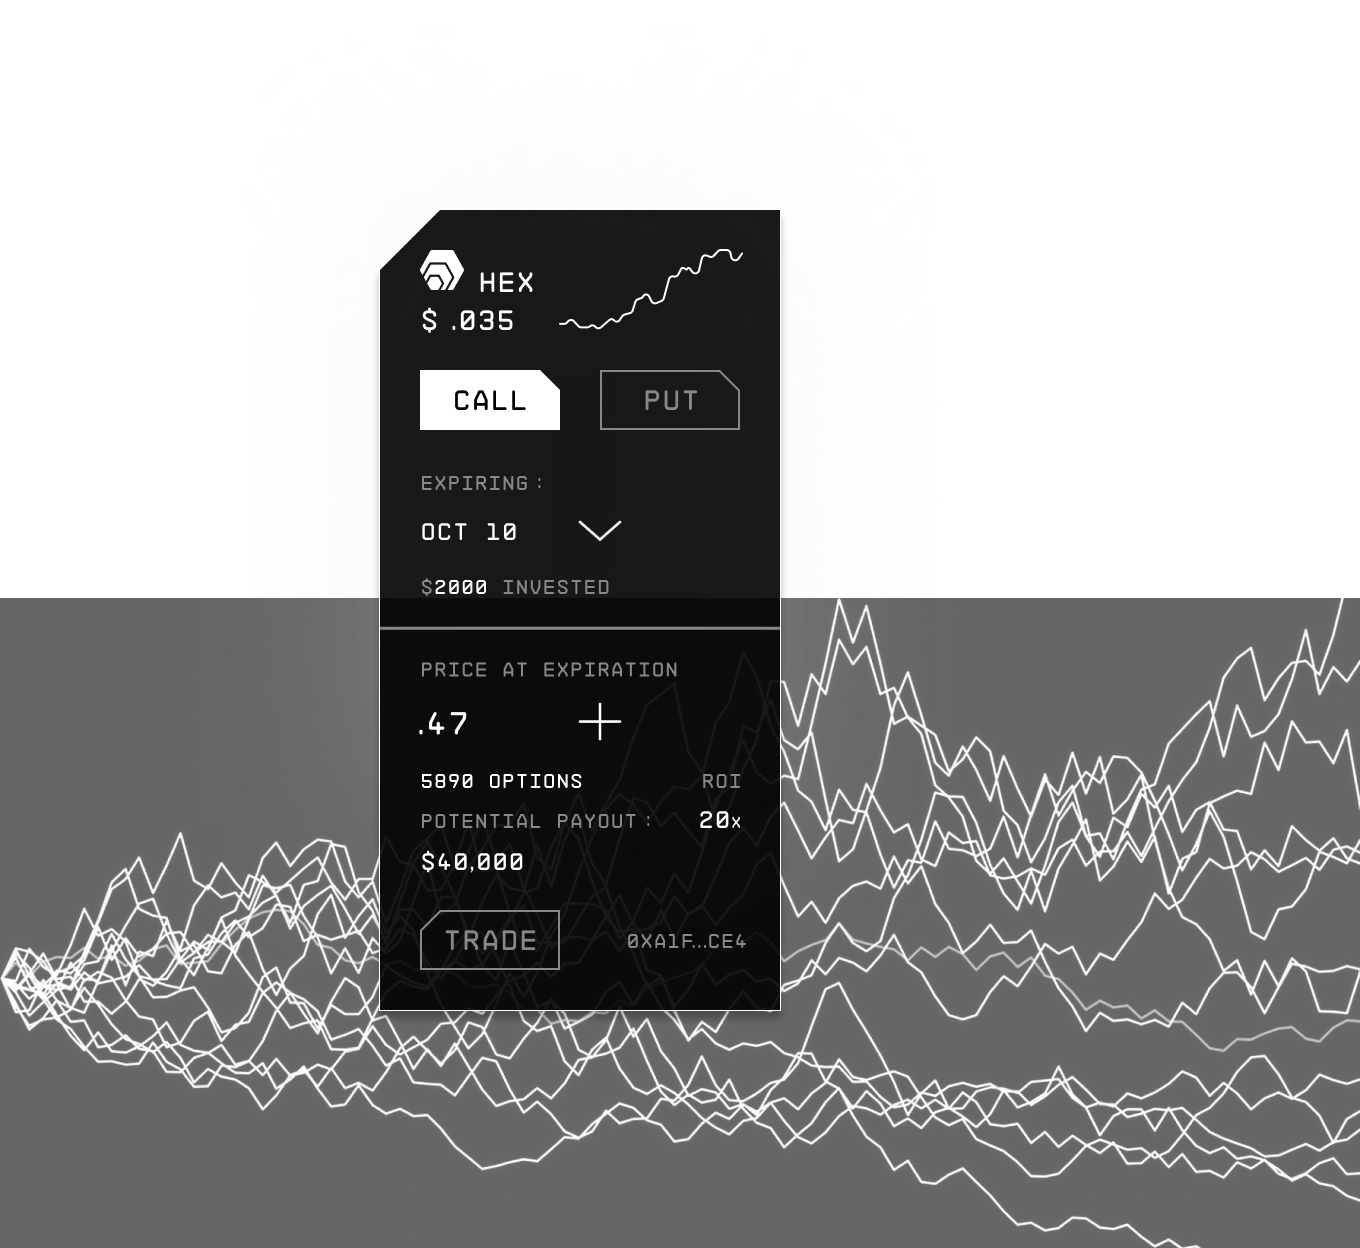
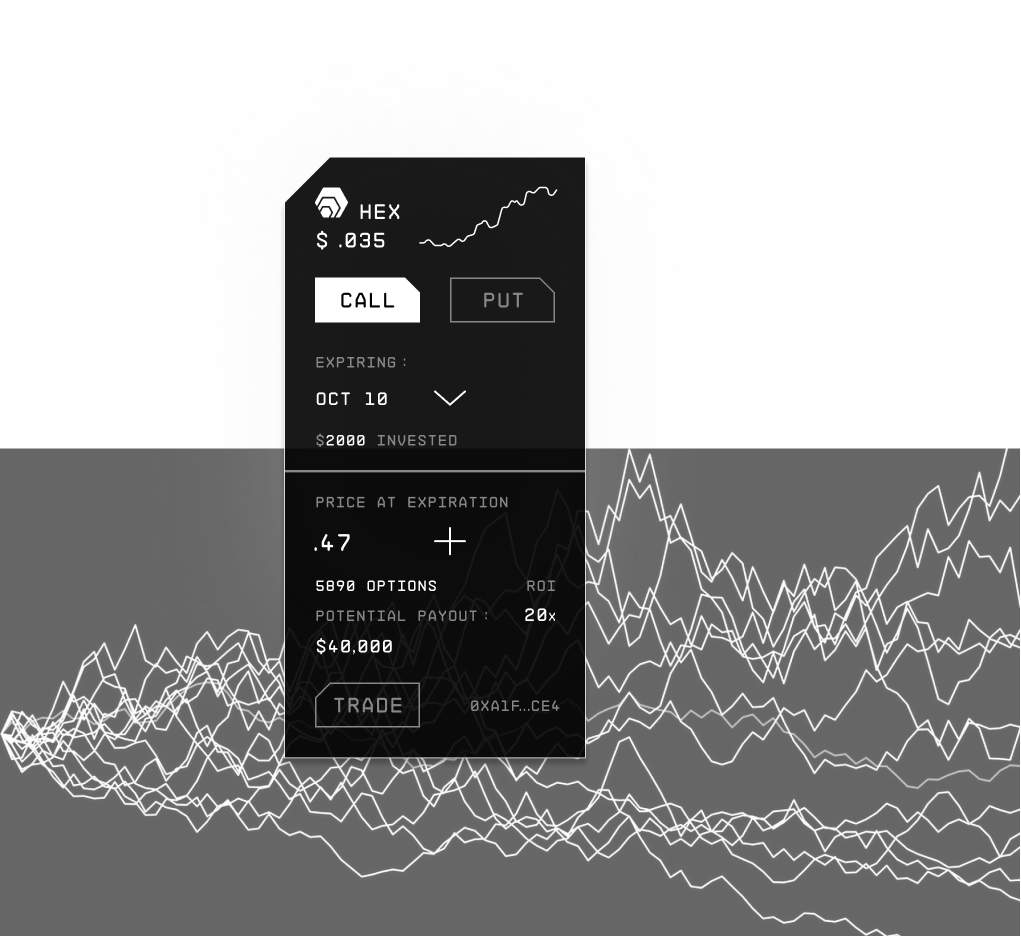
panel update?

diff --git a/_site/index.html b/_site/index.html
@@ -46,8 +46,8 @@
 				</span>
 			</div>
 		</div>
-		<div>
-			<img width="1021" height="937" alt="trading view" class="section1__image" src="/assets/images/trade_panel.png" />
+		<div style="width: 180%;">
+			<img width="1021" height="937" alt="trading view" class="section1__image" src="/assets/images/trade_panel.webp" />
 		</div>
 	</div>
 
